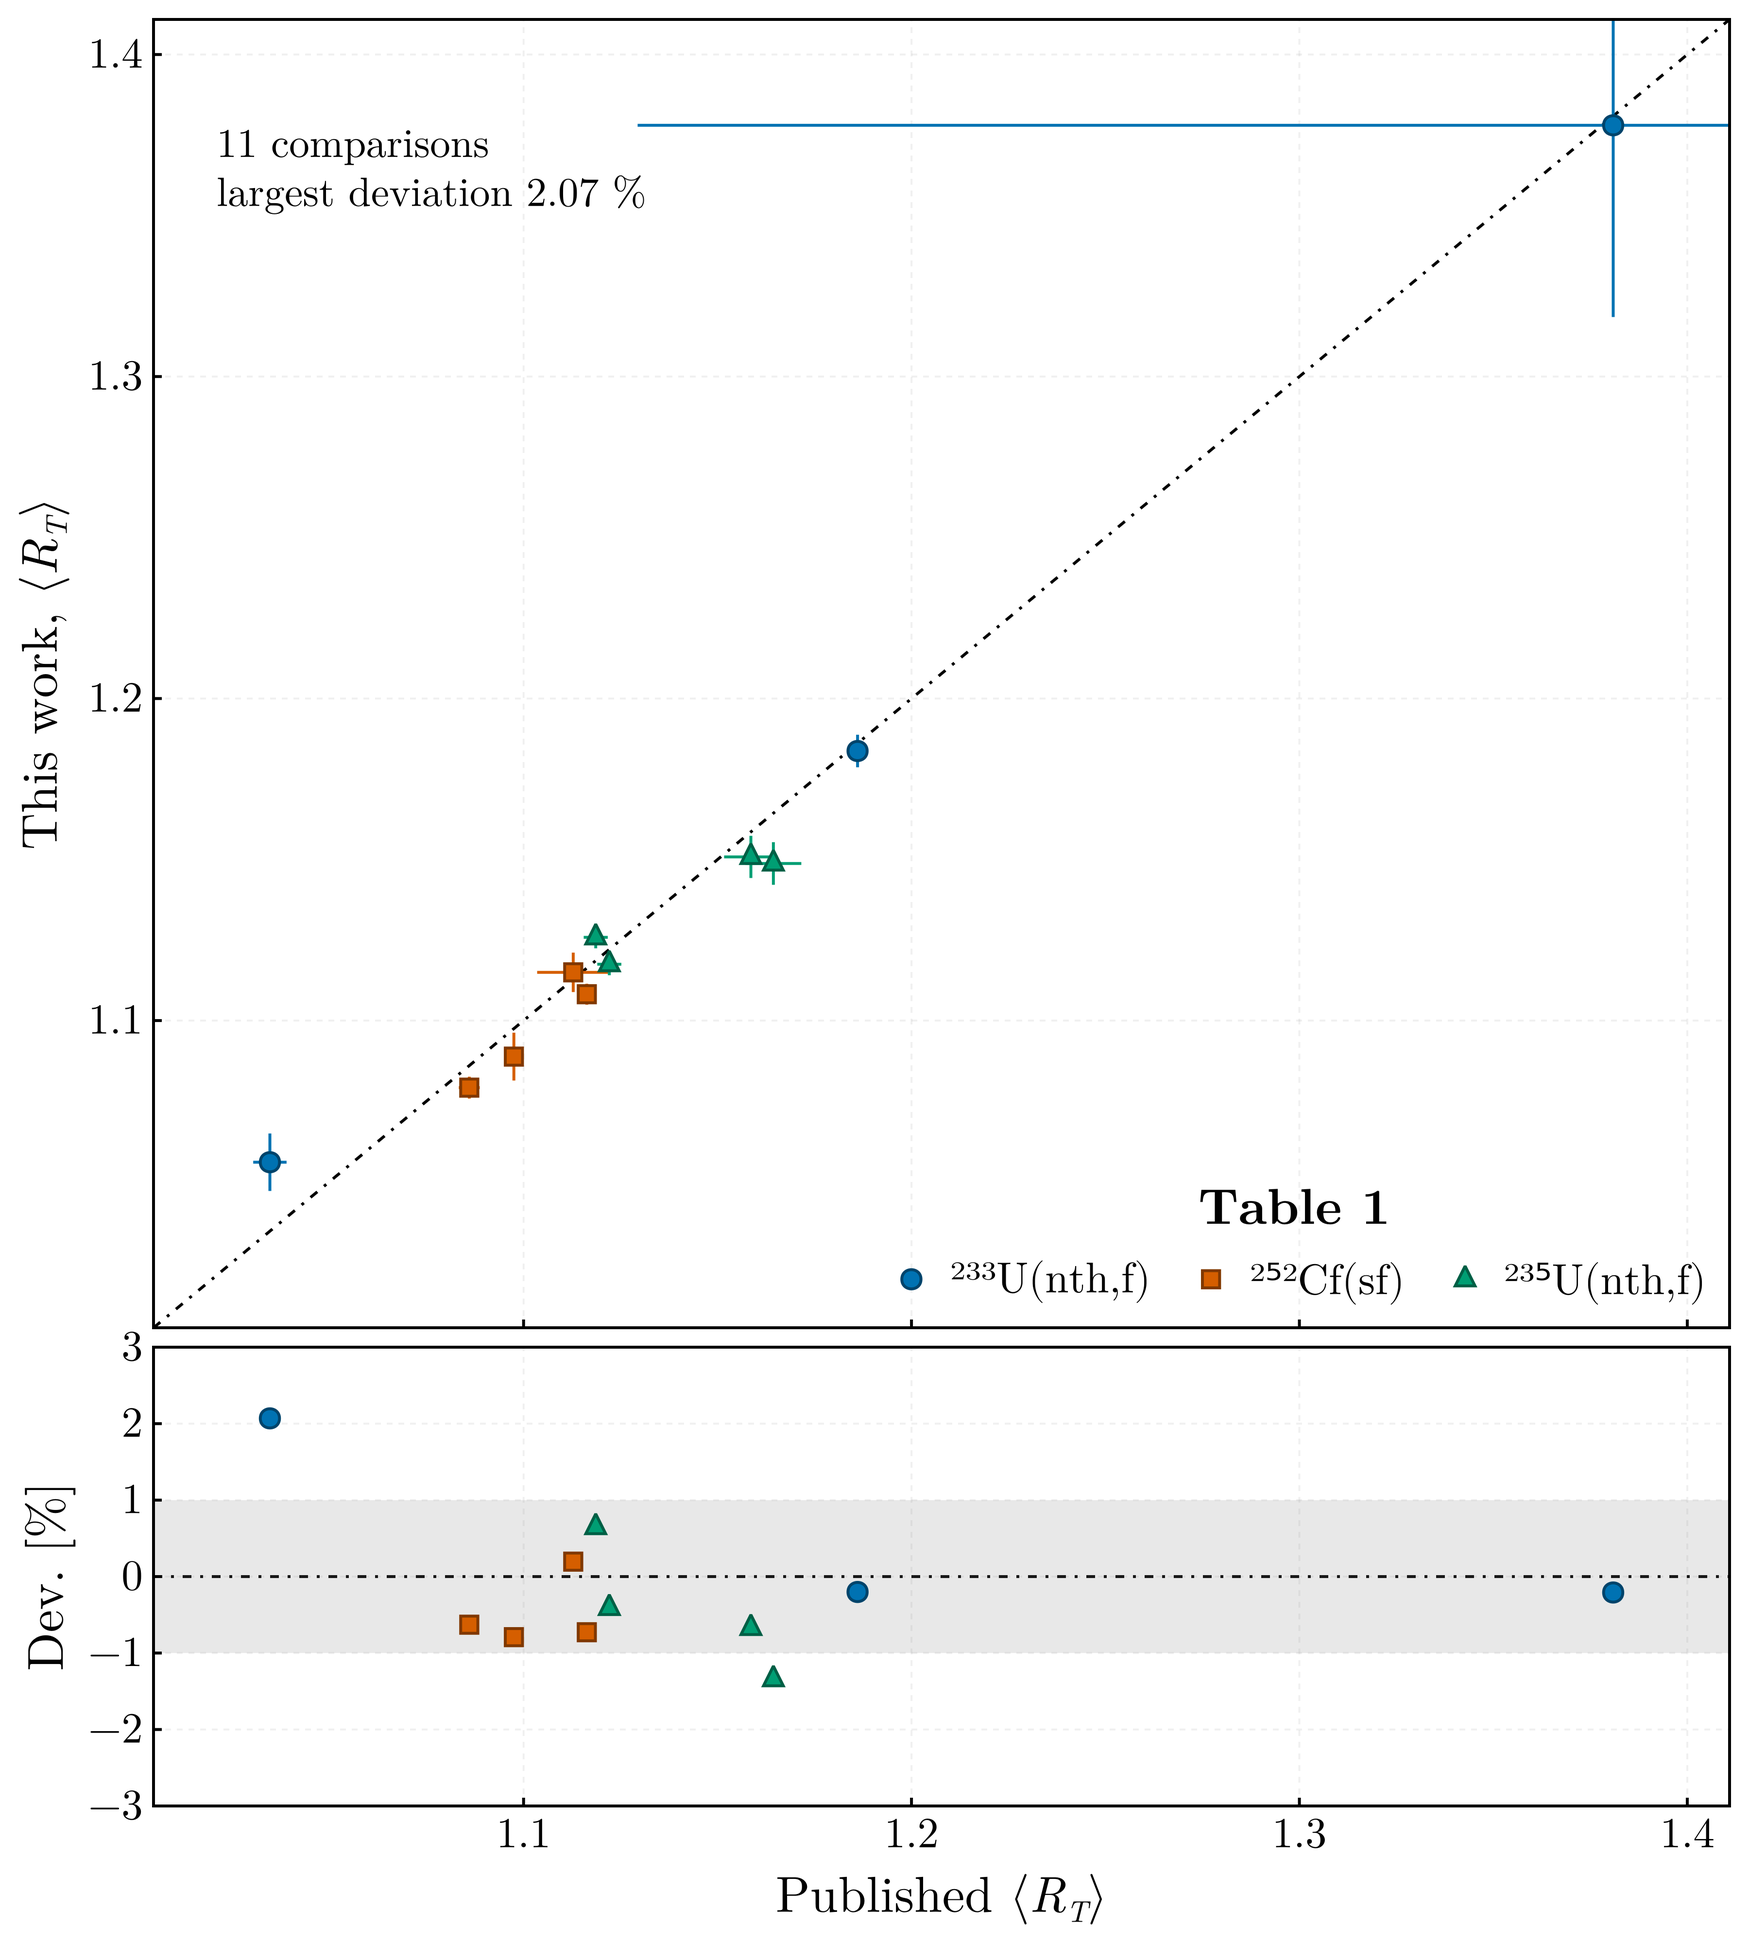
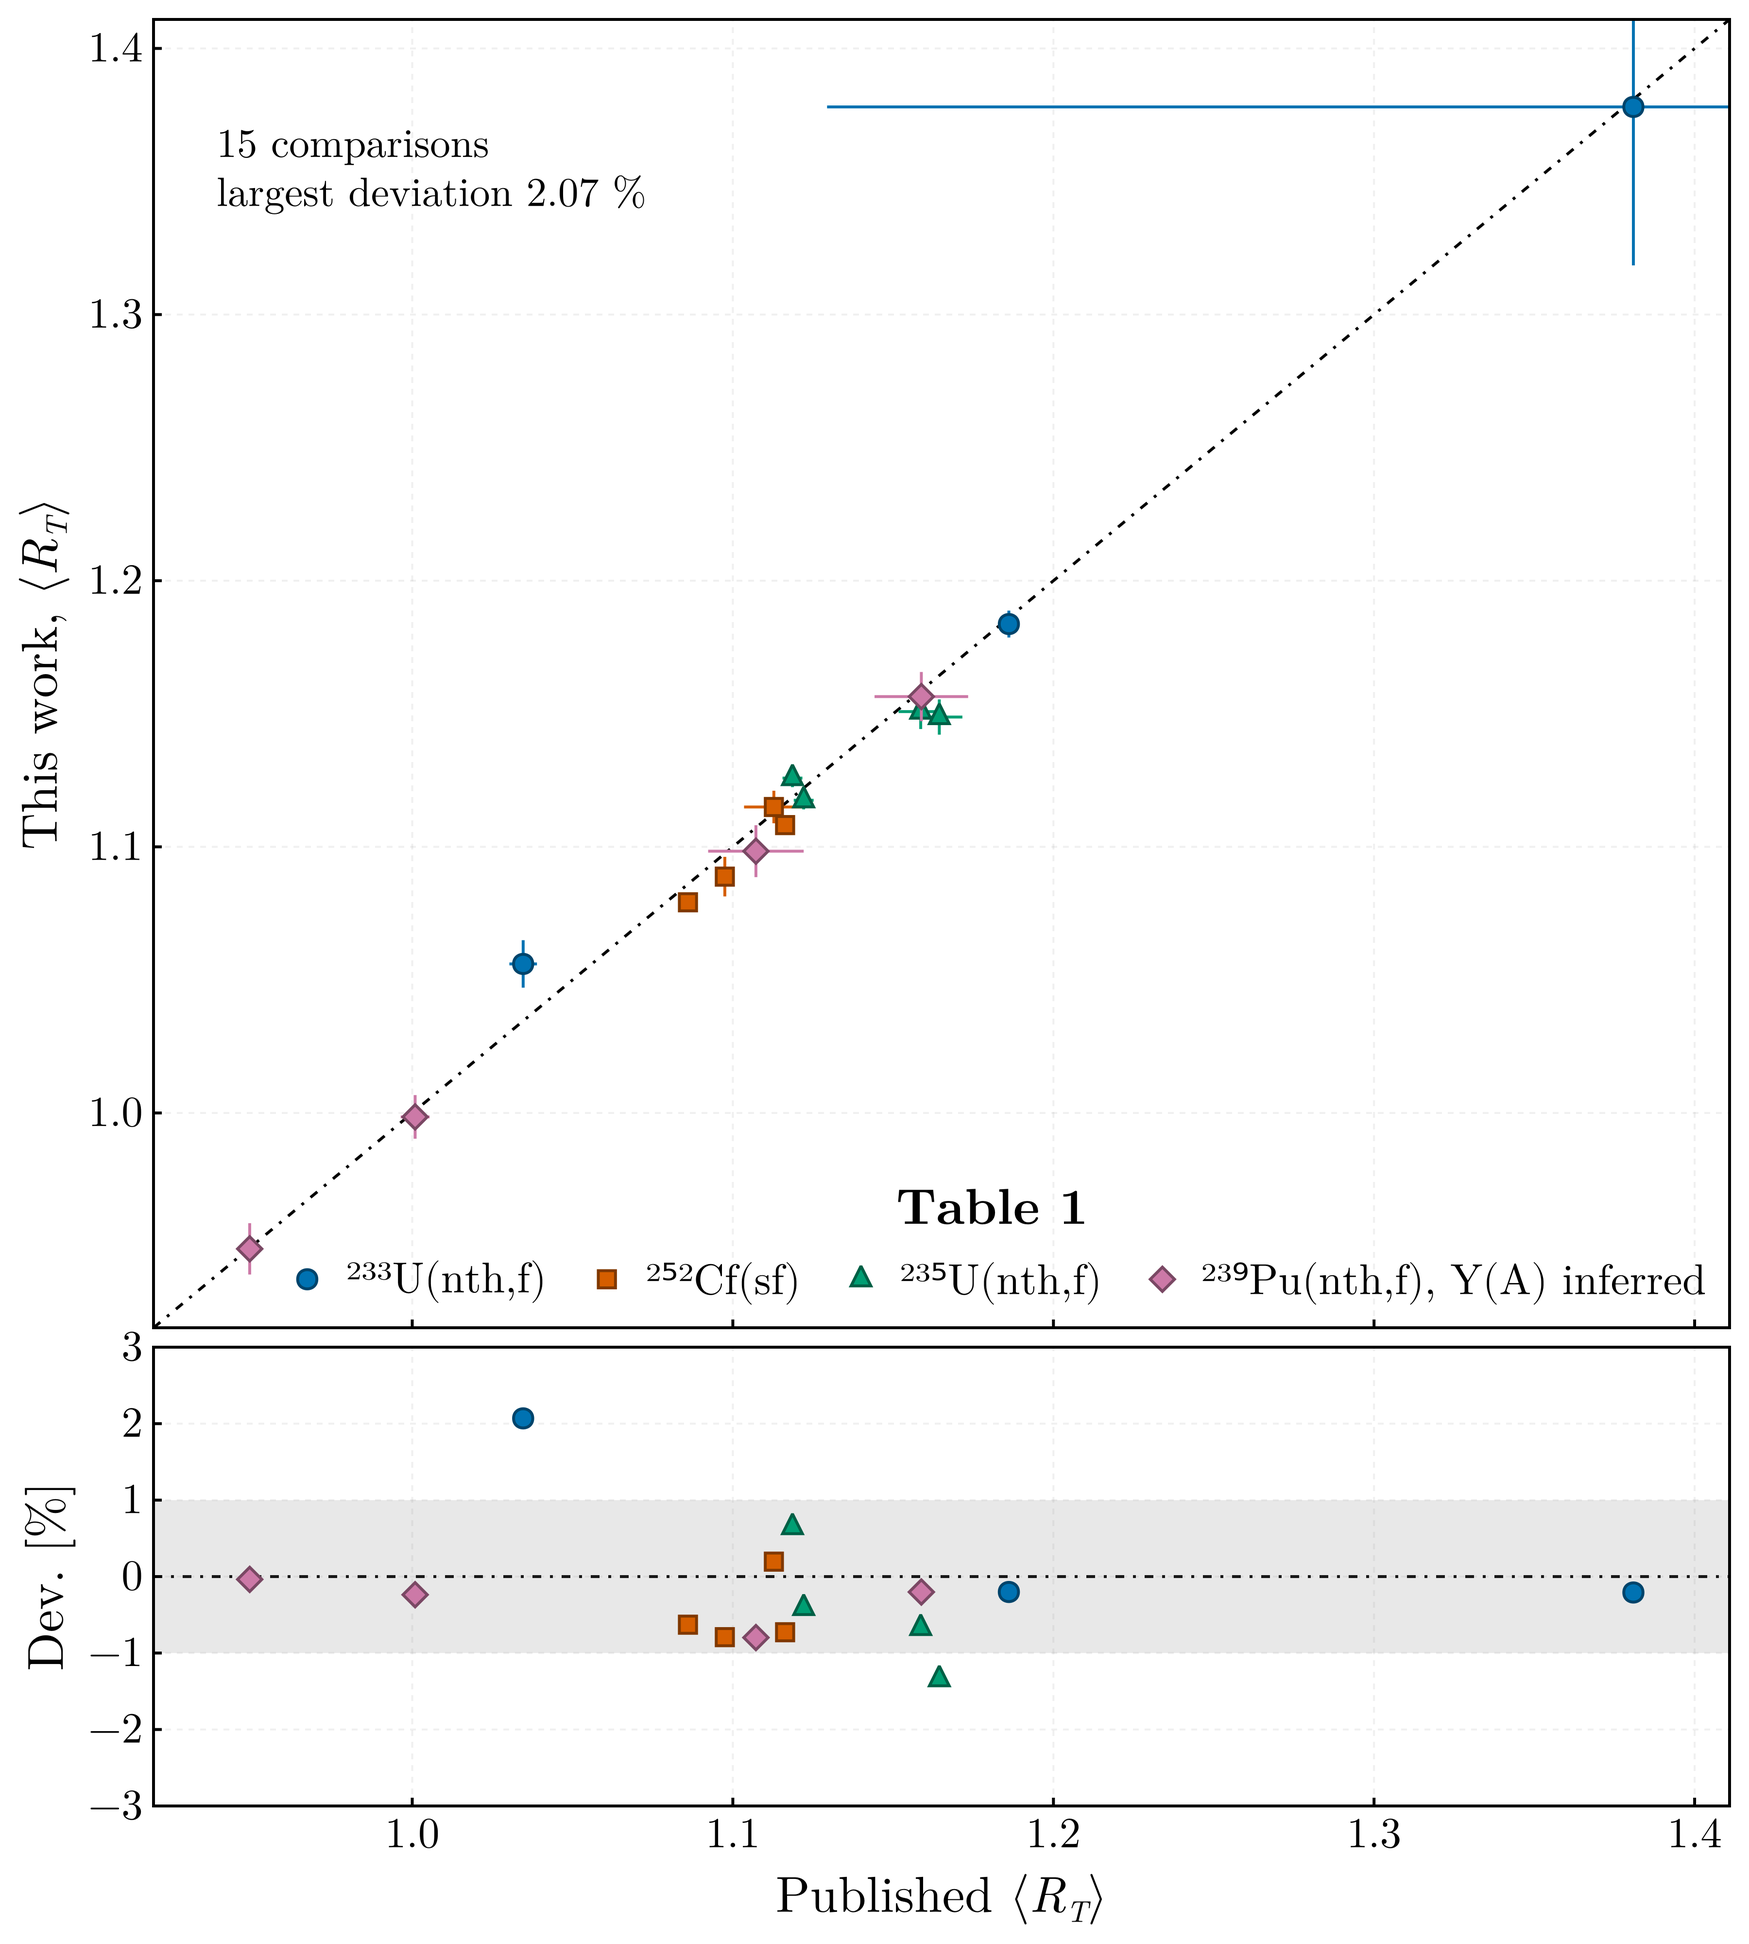
feat: take the ExforFissionData v0.2.3 inputs; assert the 239-Pu rows over an inferred Y(A)
The inputs are the retrieval of the parser's twelve committed configurations at v0.2.3 (f1dc981).
Against 0.2.1 it adds five nu(A) read per fragment by the complement test, 252-Cf Britt 1964 and
Piksaykin 1977, 239-Pu Tsuchiya 2000 and Batenkov 2004, 235-U Batenkov 2004; refuses the 252-Cf
Y(A) of Vorobiev 2001, which is not the inclusive yield; writes Tsuchiya's values on the scale of
their subentry, which codes them in percent per fission; and keeps only [A-Za-z0-9.-] of an author
in file names. No other table changes, and every Table 1 row comes back as before.

Tsuchiya (+3.9 %) and the 239-Pu Batenkov (-10.7 %) are off the scale of nu-bar and flagged.
Tsuchiya is pooled into the trend: over A_H 126 to 152 its pair sums lie within the spread of the
other 239-Pu sets, and its r_nu lies among theirs in every 10-u band. Both Batenkov sets lie on a
4-u grid of odd masses that holds no complementary pair at A0 = 240 or 236, and enter no curve.

The four 239-Pu rows of Table 1 over Nishio 1995 are asserted, the yield distribution inferred by
agreement since the table's caption names none: within 0.68 % under the published settings and
0.80 % under the shipped ones, with tolerances by the same rule. Tsuchiya's own row comes back to
0.20 % and is reported, not asserted. The comparison figure and the README carry them.

diff --git a/data/README.md b/data/README.md
@@ -78,7 +78,7 @@ julia scripts/retrieve.jl config/U233_nth_TKE_vs_A.toml /path/to/FissionTemperat
 Check that package out at a named commit before retrieving: the `[run]` table of every
 `retrieval.toml` records the revision and version that wrote it, and a run of this package copies
 that table, for every input directory it reads, into its `metadata.toml`. The results quoted in the
-README rest on the twelve committed configurations of its v0.2.1, `<system>_<observable>.toml`
+README rest on the twelve committed configurations of its v0.2.3, `<system>_<observable>.toml`
 for the four systems and `nu_vs_A`, `Y_vs_A`, `TKE_vs_A`.
 
 Masses the archive gives as non-integer values, digitised or binned, are interpolated onto the
@@ -102,13 +102,14 @@ quantity is a property of the split, so it is invariant under `A -> A₀ - A`; a
 quantity is a sawtooth whose complementary values differ by a factor of four or five and sum to
 about the total multiplicity.
 
-The retrieval applies that test and records its verdict on each dataset coded without the tag:
+The retrieval applies that test and records its verdict on each dataset coded without the tag,
+with the scale of the reading: the pair sum weighted with the light-fragment yield, against `ν̄`.
 
 | Dataset | Verdict |
 |---|---|
-| 23118006 Zeynalov 2011, 23175008 Budtz-Jørgensen 1988, 23268005 Göök 2014 | per fragment, admitted |
-| 23213012 Mehta 1973, 41720003 Basova 1979 | per pair; rejected |
-| 14652004 Britt 1964, 41689004 Piksaykin 1977 | per fragment by the test, not read: the publications could not be consulted |
+| 252-Cf: 23118006 Zeynalov 2011, 23175008 Budtz-Jørgensen 1988, 23268005 Göök 2014, 14652004 Britt 1964, 41689004 Piksaykin 1977 | per fragment, admitted |
+| 239-Pu: 22650004 Tsuchiya 2000, 41502006 Batenkov 2004; 235-U: 41502005 Batenkov 2004 | per fragment, admitted |
+| 252-Cf: 23213012 Mehta 1973, 41720003 Basova 1979 | per pair; rejected |
 
 Budtz-Jørgensen 1988 is the canonical 252-Cf(sf) `ν(A)` reference and one of the datasets the
 published table averages, so a tag-only selection could not reproduce it. Both subentries of
@@ -137,11 +138,31 @@ thermal-neutron sets carry `MXW`, a Maxwellian-averaged spectrum, which is the e
 is not flagged.
 
 **Several yield distributions are partial.** Britt 1963 (252-Cf), Bohn 1969 (235-U) and Akimov
-1971 (239-Pu) are measured on the light wing alone, Barreau 1985 (23717005) on the far heavy wing
-and Dyachenko 1967 (233-U) over twelve heavy masses. With `symmetrize = true` a light-wing yield
-stands for its heavy complement; a distribution giving a yield at fewer than
-`min_dataset_coverage` of the heavy mass numbers is read but not averaged over, and every total
-average states the fraction of its distribution's yield it takes in.
+1971 (239-Pu) are measured on the light wing alone, Barreau 1985 (23717005) on the far heavy wing,
+Dyachenko 1967 (233-U) over twelve heavy masses, and Dyachenko 1967 (235-U, 41713004) is a sparse
+digitisation of one figure that misses the heavy peak. With `symmetrize = true` a light-wing yield
+stands for its heavy complement. Coverage is measured against the primary distribution of the
+system, the share of its heavy-fragment yield at the masses a distribution holds; one below
+`min_dataset_coverage` is read but not averaged over, and every total average states the fraction
+of its distribution's yield it takes in.
+
+**Two 252-Cf yield distributions are not held.** The retrieval refuses Vorobiev 2001, 41425015
+and 41425016, coded as the inclusive pre-neutron yield: the subentries place them on Fig. 11a
+(`NUt = 0`) of Dushin et al., *Nucl. Instrum. Methods A* **516**, 539 (2004),
+doi:10.1016/j.nima.2003.09.029, and their mean heavy mass, 146.7 and 146.2 u, lies about 3 u above
+the 142.9 to 143.6 u of every inclusive measurement. The `ν(A)` of 41425014, from the same
+measurement, has its sawtooth minimum where the others do and is held.
+
+**Two 239-Pu multiplicity datasets are off the scale of ν̄.** Tsuchiya 2000 (22650004) and
+Batenkov 2004 (41502006) are read per fragment, with pair sums 3.9 ± 0.6 % above and 10.7 ± 1.3 %
+below `ν̄`, and their records state `scale_consistent = false`; the run flags them. A uniform scale
+cancels in `r_ν`, so both are used. A scale error that varies with mass would not cancel, and the
+pair sum cannot see one; by the structural diagnostics of the run, Tsuchiya's pair sums over
+`A_H` = 126 to 152 lie within the spread of the other 239-Pu sets, and its larger spread overall
+comes from the heavy tail above 154. Tsuchiya's subentry heads its values in percent per fission,
+a miscoding the record states as `unit_miscoded`; they are written as tabulated, in neutrons per
+fragment. Batenkov's datasets for 239-Pu and 235-U lie on a 4-u grid of odd masses, on which no
+mass has its complement at `A₀ = 240` or 236, so neither enters a curve.
 
 **Uncertainties are absent from several multiplicity datasets.** An unquoted uncertainty is read
 as `missing`, never as zero; such points take the median weight of the quoted ones and are counted

diff --git a/README.md b/README.md
@@ -124,7 +124,7 @@ julia docs/assets.jl
 | Pipeline, tabulated output, figures, provenance | complete |
 | Per-dataset and systematic-trend curves | complete |
 | Averaging over a fragment mass yield distribution | complete |
-| Reproduction of published total averages | complete for 233-U, 252-Cf and 235-U; see the validation status |
+| Reproduction of published total averages | complete for 233-U, 252-Cf and 235-U, and for 239-Pu over an inferred Y(A); see the validation status |
 | Run record with the fragmentation domain, for the consuming code | complete |
 
 ## Results at a glance
@@ -132,9 +132,10 @@ julia docs/assets.jl
 The method, its conventions and its equation numbering are those of *Eur. Phys. J. A* **60**, 190
 (2024), [doi:10.1140/epja/s10050-024-01375-7](https://doi.org/10.1140/epja/s10050-024-01375-7),
 and this package reproduces the results published there: with the published settings, the total
-average temperature ratios of its Table 1 come back to within 1.0 % for ²³³U(nth,f), ²⁵²Cf(sf)
-and ²³⁵U(nth,f), Apalin's ²³³U measurement aside at 1.9 %, and with the shipped settings, which
-invert charge by charge on Wahl's charge model, to within 1.4 %, Apalin aside at 2.1 %.
+average temperature ratios of its Table 1 come back to within 1.0 % for ²³³U(nth,f), ²⁵²Cf(sf),
+²³⁵U(nth,f) and ²³⁹Pu(nth,f), Apalin's ²³³U measurement aside at 1.9 %, and with the shipped
+settings, which invert charge by charge on Wahl's charge model, to within 1.4 %, Apalin aside at
+2.1 %. For ²³⁹Pu the yield distribution is inferred by agreement, the table's caption naming none.
 The [validation status](#validation-status) below states exactly what has been checked against the
 paper and what has not.
 
@@ -633,7 +634,7 @@ Verified:
   again near the most probable fragmentation, and a near-linear rise above it.
 - **The published total averages, to within 1.0 %, one measurement aside.** The `⟨R_T⟩` of
   Table 1 of the paper, per `ν(A)` dataset and per `Y(A)` distribution, comes back from
-  independently retrieved archive data (ExforFissionData.jl v0.2.1) with the published settings —
+  independently retrieved archive data (ExforFissionData.jl v0.2.3) with the published settings —
   the ratio of means over the digitised Gaussian charge tables, or the mean values for ²³³U, on the
   shared fragmentation domain:
 
@@ -642,12 +643,21 @@ Verified:
   | ²³³U(nth,f) | Surin | 3 of 3 | 1.89 % (Apalin; others 0.41 %) | 2.07 % (Apalin; others 0.21 %) |
   | ²⁵²Cf(sf) | Göök | 4 of 5 | 0.54 % | 0.79 % |
   | ²³⁵U(nth,f) | Al-Adili, Straede | 2 of 3 | 1.00 % | 1.34 % |
+  | ²³⁹Pu(nth,f) | Nishio 1995, inferred by agreement | 4 of 5 | 0.68 % | 0.80 % |
 
   ![Published comparison](docs/src/assets/published_comparison.png)
 
   The figure shows the shipped settings over the distributions the table names; the shipped
-  configurations average over one primary experiment's `Y(A)` per system, which for ²³³U and ²³⁵U
-  is not among them.
+  configurations average over one primary experiment's `Y(A)` per system, which for ²³³U, ²³⁵U
+  and ²³⁹Pu is not among them.
+
+  The ²³⁹Pu rows are averaged over a distribution inferred by agreement. The published table
+  averages over an experimental distribution its caption does not identify, and over a second that
+  is calculated and cannot be retrieved; over Nishio 1995 the Nishio, Apalin and Zamyatnin `ν(A)`
+  rows come back to within 0.12 % and Fraser to 0.68 %, which identifies that distribution, or one
+  close to it, without confirming it. The fifth row, Tsuchiya 2000, comes back to 0.20 % but is
+  not asserted: the retrieval records its scale as off that of `ν̄` by 3.9 %, which cancels in
+  `r_ν`.
 
   Apalin's ²³³U masses are given as non-integer values, 52 of them, which the retrieval
   interpolates onto 69 integers; rounded instead, as an earlier retrieval did, they paired only
@@ -681,12 +691,8 @@ Verified:
 
 Not verified:
 
-- **²³⁹Pu(nth,f) is compared, but against a yield distribution the paper does not name.** The
-  published table averages over an experimental distribution its caption does not identify, and
-  over a second that is calculated and cannot be retrieved. With the Nishio 1995 `Y(A)` and the
-  published settings, the Nishio, Apalin and Zamyatnin `ν(A)` rows come back to within 0.12 % and
-  Fraser to 0.68 %, which identifies that distribution, or one close to it, without confirming it.
-  These rows are not asserted by the tests.
+- The yield distribution of the ²³⁹Pu rows of Table 1, Nishio 1995, which is inferred by
+  agreement rather than named by the paper.
 - The effect of neglecting the back-shift. The level density parameter is taken from a systematic
   that fits it jointly with a back-shift `E1`, while the extraction rests on the un-shifted
   `E* = a T²` the method is published under. `E1` differs between the two fragments, so it does not

diff --git a/CHANGELOG.md b/CHANGELOG.md
@@ -174,14 +174,17 @@ Notable changes to FissionTemperatureRatio.jl. The format follows
 
 ### Changed
 
-- **The quoted results rest on inputs retrieved with ExforFissionData.jl v0.2.1**, which
+- **The quoted results rest on inputs retrieved with ExforFissionData.jl v0.2.3**, which
   interpolates masses the archive gives as non-integer values onto the integers rather than
-  rounding them, reads the uncertainties of the archive subentry, and admits the ²⁵²Cf `ν(A)` of
-  Budtz-Jørgensen 1988, Göök 2014 and Zeynalov 2011, coded without the `FRG` tag, by a complement
-  test. Under the published settings Apalin's ²³³U row of Table 1 moves from +0.60 % to +1.89 %,
-  Fraser's from +1.09 % to −0.41 %, and the ²⁵²Cf Budtz-Jørgensen row from −0.36 % to −0.53 %;
-  the ²³⁹Pu rows over Nishio 1995 `Y(A)` come back to within 0.7 %, where Apalin and Zamyatnin had
-  deviated by 2 %.
+  rounding them, reads the uncertainties of the archive subentry, admits multiplicities coded
+  without the `FRG` tag by a complement test on their data — for ²⁵²Cf Budtz-Jørgensen 1988,
+  Göök 2014, Zeynalov 2011, Britt 1964 and Piksaykin 1977, for ²³⁹Pu Tsuchiya 2000 and Batenkov
+  2004, for ²³⁵U Batenkov 2004 — and refuses the ²⁵²Cf `Y(A)` of Vorobiev 2001, which is not the
+  inclusive yield. Under the published settings Apalin's ²³³U row of Table 1 moves from +0.60 %
+  to +1.89 %, Fraser's from +1.09 % to −0.41 %, and the ²⁵²Cf Budtz-Jørgensen row from −0.36 % to
+  −0.53 %; the ²³⁹Pu rows over Nishio 1995 `Y(A)` come back to within 0.7 %, where Apalin and
+  Zamyatnin had deviated by 2 %, and are now asserted, the yield distribution inferred by
+  agreement.
 - **The default inversion is `"charge_resolved"`.** Along the systematic trends `R_T` moves by up
   to 3.6 × 10⁻³ from the ratio of means, at the doubly magic heavy fragment, and every `⟨R_T⟩` by
   −0.02 % to −0.06 %. The excitation weight moves ²³³U `⟨R_T⟩` by a further −0.11 % to −0.15 %.
